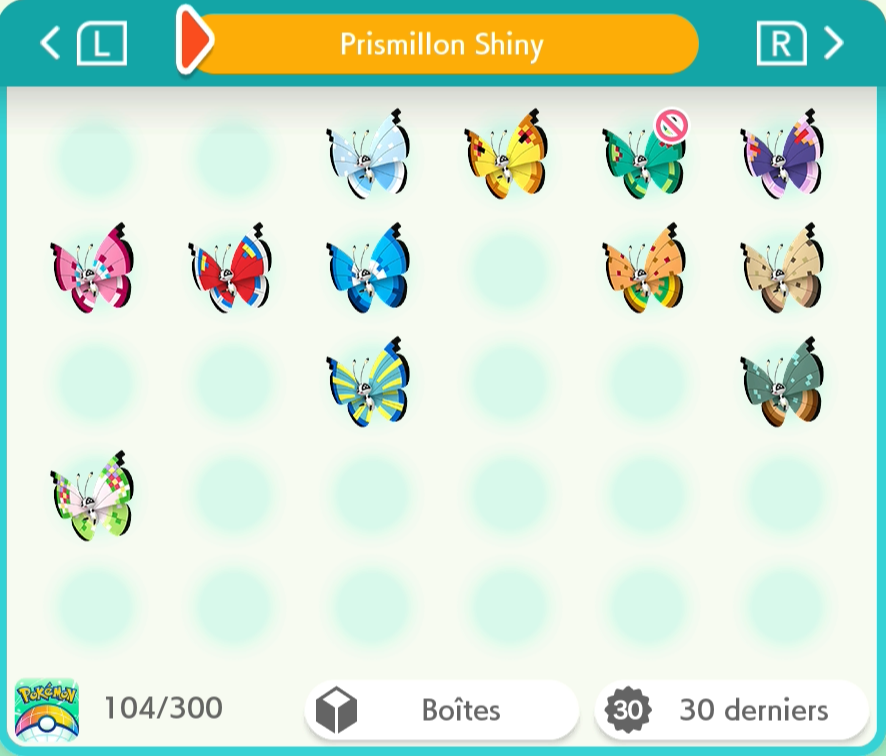
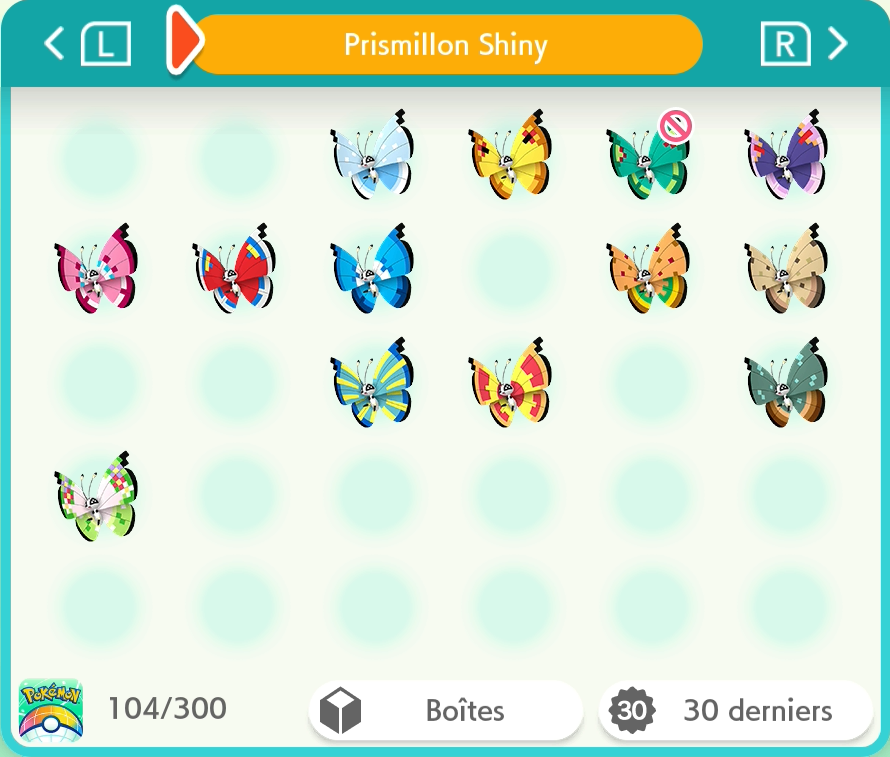
9G : Gambex | Prismillon : Motif Zénith

diff --git a/README.md b/README.md
@@ -2,8 +2,8 @@
 
 Pokémon-Elément-Sh -> <a href="https://www.pokemon-element-sh.fr/profil/karyno21" target="_blank">Karyno21</a>
 
-↓ Dernière Update le 18/10/2026 à 22h24 ↓
-### Dex 1-9G [299/1001] +38
+↓ Dernière Update le 19/10/2026 à 5h03 ↓
+### Dex 1-9G [300/1001] +39
 
 | Gen | Prog | Notes |
 |:--:|:--:|---|
@@ -15,7 +15,7 @@ Pokémon-Elément-Sh -> <a href="https://www.pokemon-element-sh.fr/profil/karyno
 |6G|30/71|+8 : Amagara, Dragmara, Ptyranidur, Volcanion (HOME), Diancie (JP Event), Lépidonille, Pérégrain & Prismillon (Floraison)|
 |7G|20/84|+4 : Type:0, Silvallié, Mandrillon & Sovkipou|
 |8G|34/90|+1 : Crèmy|
-|9G|46/108|+1 : Amassel|
+|9G|47/108|+2 : Amassel & Gambex|
 
 ### Formes Régionales [58/58]
 
@@ -31,7 +31,7 @@ Pokémon-Elément-Sh -> <a href="https://www.pokemon-element-sh.fr/profil/karyno
 <details>
   <summary>Bonus - Motif de Prismillon</summary>
 
-### Motif de Prismillon [12/19] +12
+### Motif de Prismillon [13/19] +13
 
 | Motif | Prog |
 |---|:--:|
@@ -54,7 +54,7 @@ Pokémon-Elément-Sh -> <a href="https://www.pokemon-element-sh.fr/profil/karyno
 |Motif Sécheresse|Obtenu|
 |Motif Soleil Levant||
 |Motif Verdure|Obtenu|
-|Motif Zénith||
+|Motif Zénith|Obtenu|
 
 </details>
 
